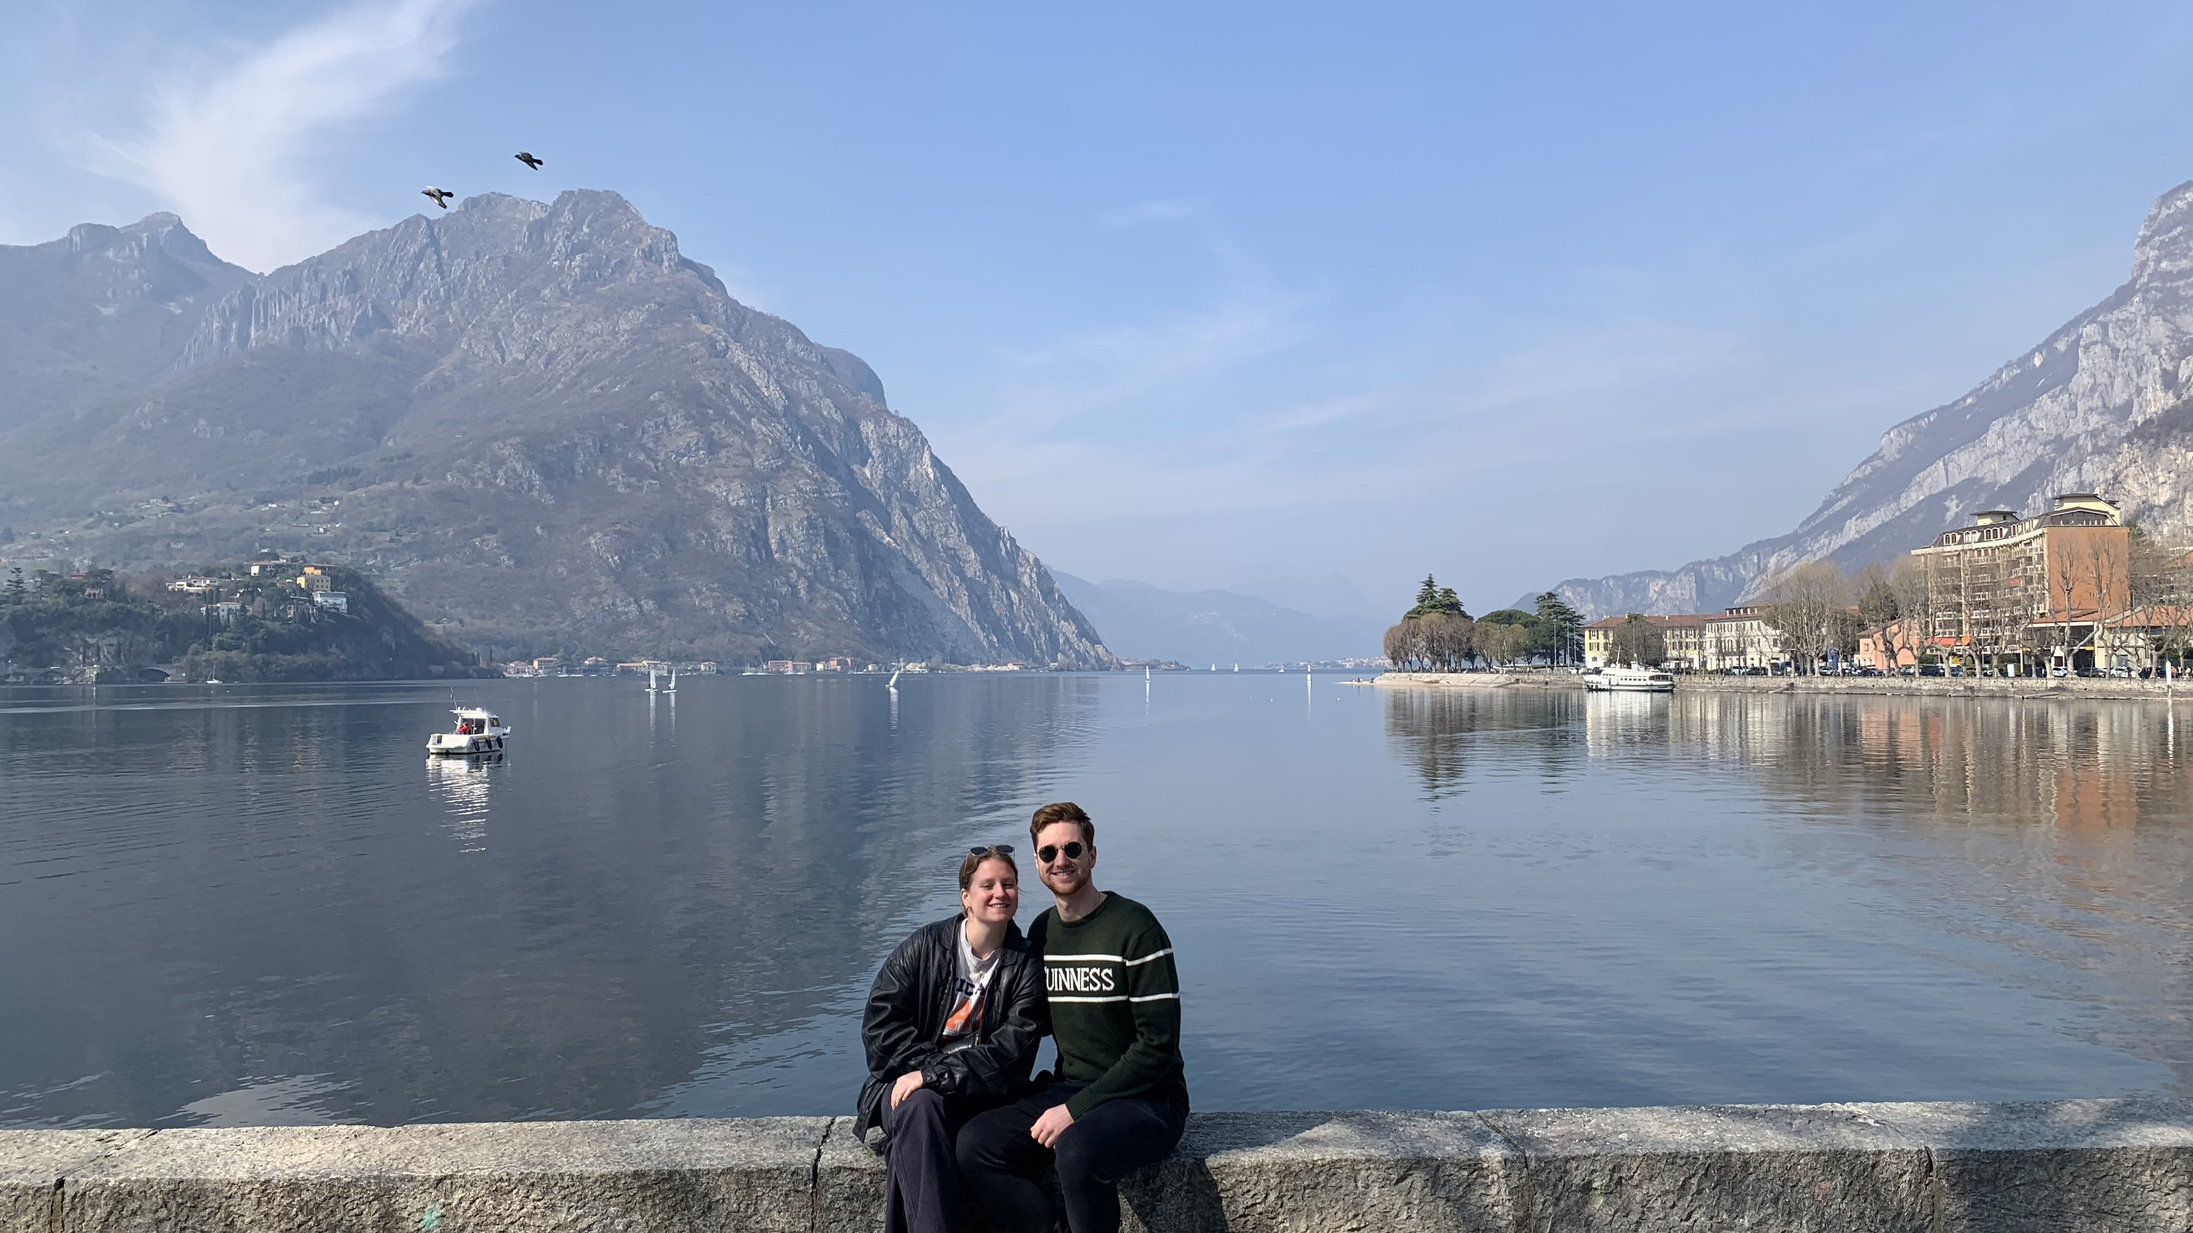
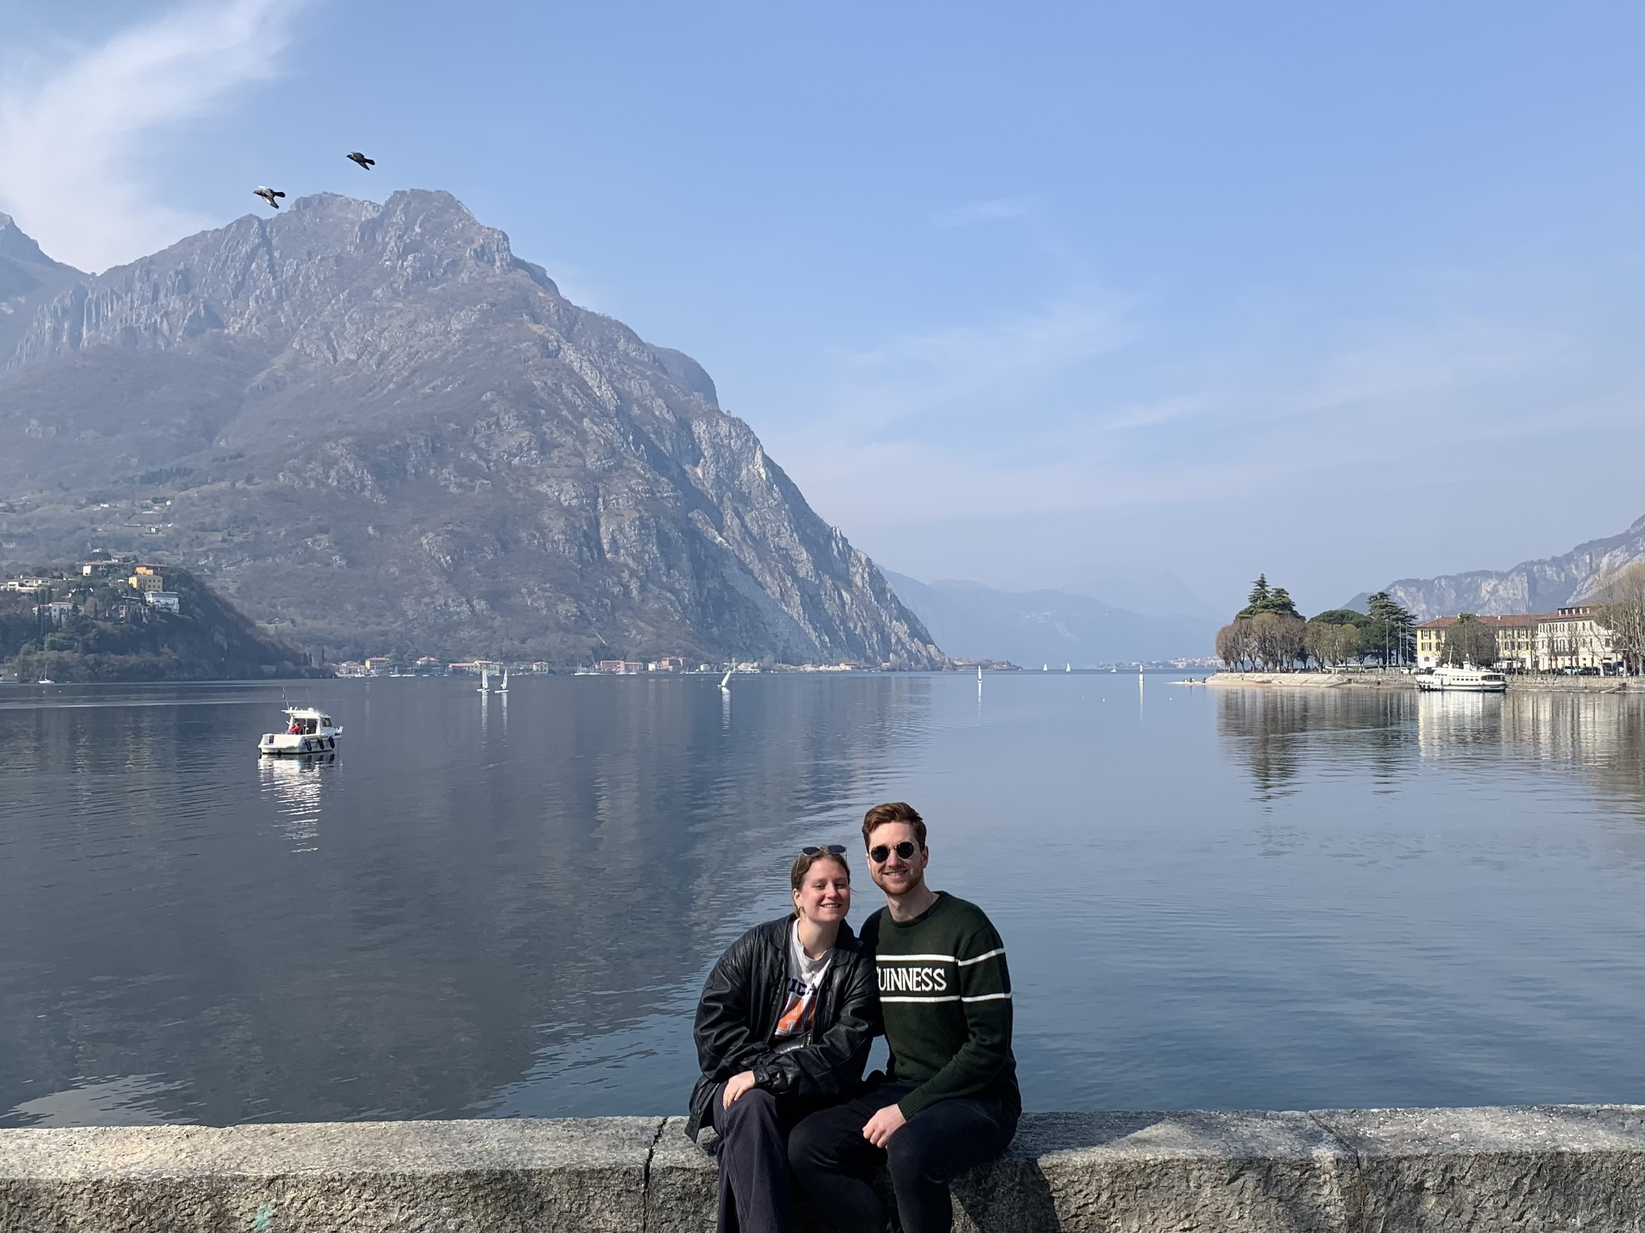
Ireland & Scotland updates

Changed region(s): [[0.0, 0.0, 1.0, 1.0], [0.7149, 0.8333, 0.746, 0.8642], [0.7149, 0.7716, 0.746, 0.8025]]

diff --git a/index.py b/index.py
@@ -745,7 +745,7 @@ def set_display_children(value):
                 'well-known Cristo in Brazil! Visiting the statue, you will realize just how massive it is, '
                 'and you will also get incredible views of the surrounding mountains and the city below. I heard '
                 'some lovely music from the very kind locals, and I ate a salteña that '
-                'I still dream about to this day. I hope to be back some day!',
+                'I still dream about to this day. I hope to be back someday!',
                 html.Br(), html.Br(),
                 html.Div(id="weather", children=weather.update_weather(weather.get_lat_lon(coordinates.cocha_geojson)), className='weather'), html.Br(),
                 html.Div(
@@ -2509,9 +2509,11 @@ def set_display_children(value):
 
     if value == 'Blarney':
         lat_lon_str = weather.get_lat_lon(coordinates.blarney_geojson)
-        return ('Home of the famous Blarney Stone -- found in the Blarney Castle, it endows those who '
-                'kiss it with the "gift of gab." There is much more to Blarney than just the castle or the stone -- '
-                'the castle is surrounded by '
+        return ('Home of the famous Blarney Stone -- found in the legendary Blarney Castle (which dates back to the '
+                'year 1210), it endows those who kiss it with the "gift of gab." ',
+                html.Br(), html.Br(),
+                'There is much more to Blarney than '
+                'just the castle or the stone -- the castle is surrounded by '
                 'extensive gardens. The whole area has a unique mystical feeling. This starts with the castle, its '
                 'dungeons, and the other stories about its history. Outside the castle, there are curious natural rock '
                 'formations, including one that resembles "the Blarney Witch" trapped inside a rock. There are signs '
@@ -2599,7 +2601,8 @@ def set_display_children(value):
                 html.Div(id="weather", children=weather.update_weather(lat_lon_str), className='weather'), html.Br(),
                 dbc.Carousel(
                     items=[
-                        # {"src": "assets/ireland/cork.JPG"},
+                        {"src": "assets/ireland/cork.JPG"},
+                        {"src": "assets/ireland/cork1.JPG"},
                     ],
                     interval=2000,
                     ride="carousel",
@@ -2672,6 +2675,7 @@ def set_display_children(value):
                 html.Br(), html.Br(),
                 "The town is nice (and very small), but the real magic of Donegal is outside of the town and "
                 "in the hills / along the coast. Try to get out and explore the beauty of County Donegal.",
+                html.Br(), html.Br(),
                 html.Div(id="weather", children=weather.update_weather(lat_lon_str), className='weather'), html.Br(),
                 dbc.Carousel(
                     items=[
@@ -2725,7 +2729,6 @@ def set_display_children(value):
                 ), html.Br(),
                 dbc.Carousel(
                     items=[
-                        {"src": "assets/ireland/dublin17.JPG"},
                         {"src": "assets/ireland/dublin8.JPG"},
                         {"src": "assets/ireland/dublin11.JPG"},
                         {"src": "assets/ireland/dublin15.JPG"},
@@ -2740,7 +2743,7 @@ def set_display_children(value):
                         {"src": "assets/ireland/dublin6.JPG"},
                         {"src": "assets/ireland/dublin5.JPG"},
                         {"src": "assets/ireland/dublin12.JPG"},
-                        # {"src": "assets/ireland/dublin7.JPG"},
+                        {"src": "assets/ireland/dublin7.JPG"},
                         {"src": "assets/ireland/dublin14.JPG"},
                         {"src": "assets/ireland/dublin16.JPG"},
                     ],
@@ -2773,6 +2776,7 @@ def set_display_children(value):
                 "Lastly, be sure to get out of the town center and walk along the Claddagh Quay, Nimmo's Pier, "
                 'and South Park for some lovely views of the colored houses along "The Long Walk" and of the River '
                 'Corrib and the Galway Bay.',
+                html.Br(), html.Br(),
                 html.Div(id="weather", children=weather.update_weather(lat_lon_str), className='weather'), html.Br(),
                 dbc.Carousel(
                     items=[
@@ -2794,7 +2798,7 @@ def set_display_children(value):
 
     if value == "Giant's Causeway":
         lat_lon_str = weather.get_lat_lon(coordinates.giants_geojson)
-        return ("Giant's Causeway was really stunning. I was lucky to have had sunshine when I visited. "
+        return ("Giant's Causeway was really stunning. I was lucky to have some sunshine when I visited. "
                 "The rock formations are quite extensive and really fascinating. I loved the day trip excursion I "
                 "did from Belfast, which included Giant's Causeway, the Old Bushmills Distillery, the 'Dark Hedges' "
                 "used in a famous Game of Thrones scene, and also a couple very cool castles "
@@ -2813,6 +2817,9 @@ def set_display_children(value):
                 "causeway, leaving what you see today! You can also find similar rock formations on the Scottish side "
                 "of the sea, representing the remnants of the other side of the bridge that Fionn built.",
                 html.Br(), html.Br(),
+                "In addition to the Giant's Causeway itself, please enjoy a few other pictures from nearby below, "
+                "including the 'Dark Hedges.'",
+                html.Br(), html.Br(),
                 html.Div(id="weather", children=weather.update_weather(lat_lon_str), className='weather'), html.Br(),
                 dbc.Carousel(
                     items=[
@@ -2822,6 +2829,11 @@ def set_display_children(value):
                         {"src": "assets/ireland/giants3.jpg"},
                         {"src": "assets/ireland/giants4.jpg"},
                         {"src": "assets/ireland/giants5.jpg"},
+                        {"src": "assets/ireland/giants6.jpg"},
+                        {"src": "assets/ireland/giants7.jpg"},
+                        {"src": "assets/ireland/giants8.jpg"},
+                        {"src": "assets/ireland/giants9.jpg"},
+
                     ],
                     interval=2000,
                     ride="carousel",
@@ -2880,7 +2892,8 @@ def set_display_children(value):
 
     if value == 'Limerick':
         lat_lon_str = weather.get_lat_lon(coordinates.limerick_geojson)
-        return ('More coming soon!',
+        return ('I just made a quick stop in Limerick, but it was fun to see the fabled River Shannon, the namesake '
+                'for the lovely Irish pub in Chicago!',
                 html.Br(), html.Br(),
                 html.Div(id="weather", children=weather.update_weather(lat_lon_str), className='weather'), html.Br(),
                 dbc.Carousel(
@@ -2925,20 +2938,14 @@ def set_display_children(value):
     if value == 'Bergamo':
         lat_lon_str = weather.get_lat_lon(coordinates.bergamo_geojson)
         return ('DO NOT immediately overlook Bergamo in favor of Milan. A lot of budget airlines that '
-                'fly to "Milan" '
-                'actually fly to the nearby city of Bergamo. It is a really cute city and they invented '
-                'Stracciatella gelato. Take the little cable car up to the high part of the city and walk '
-                'around the '
-                'fortress area. There is a great view to the south of the city right when you get off '
-                'the cable car. '
-                'There is also a restaurant / cafe right there as well with really nice views. '
-                'Climb the rest of the '
-                'way up and you can also get the view the opposite direction (north), where you can '
-                'actually see the '
-                'mountains of Switzerland not too far away! Circolino is a great restaurant -- you can '
-                'get a 3 course '
-                'meal with wine for just 15 euros (as of 2023). Be sure to have some risotto, '
-                'more traditional than pasta in the north of Italy.',
+                'fly to "Milan" actually fly to the nearby city of Bergamo. It is a really cute city and they invented '
+                'Stracciatella gelato. Take the little cable car up to the high part of the city and walk around the '
+                'fortress area. There is a great view to the south of the city right when you get off the cable car. '
+                'There is also a restaurant / cafe right there as well with really nice views. Climb the rest of the '
+                'way up and you can also get the view the opposite direction (north), where you can actually see the '
+                'mountains of Switzerland not too far away! Circolino is a great restaurant -- you can get a 3 course '
+                'meal with wine for just 15 euros (as of 2023). '
+                'Be sure to have some risotto, more traditional than pasta in the north of Italy.',
                 html.Br(), html.Br(),
                 html.Div(id="weather", children=weather.update_weather(lat_lon_str), className='weather'), html.Br(),
                 dbc.Carousel(
@@ -3026,8 +3033,8 @@ def set_display_children(value):
                 html.Div(id="weather", children=weather.update_weather(lat_lon_str), className='weather'), html.Br(),
                 dbc.Carousel(
                     items=[
-                        # {"src": "assets/italy/lecco.JPG"}, # different photo size
-                        # {"src": "assets/italy/lecco1.JPG"}, # different photo size
+                        {"src": "assets/italy/lecco.JPG"},
+                        {"src": "assets/italy/lecco1.JPG"},
                         {"src": "assets/italy/lecco2.JPG"},
                         {"src": "assets/italy/lecco3.JPG"},
                         {"src": "assets/italy/lecco4.JPG"},
@@ -4269,13 +4276,14 @@ def set_display_children(value):
     # Scotland
     if value == 'Carnoustie':
         lat_lon_str = weather.get_lat_lon(coordinates.carnoustie_geojson)
-        return ('Unlike St Andrews, the only reason you should come to Carnoustie is for golf! And that is a great '
-                'reason to come! There are two amazing golf courses here. My dad and I enjoyed two great rounds here.',
+        return ('Unlike the town of St Andrews which has plenty to offer besides golf, the only reason you should come '
+                'to Carnoustie is for golf. This of course if still a great reason to come! There are two amazing '
+                'golf courses here. My dad and I enjoyed a great round on both of the courses.',
                 html.Br(), html.Br(),
                 html.Div(id="weather", children=weather.update_weather(lat_lon_str), className='weather'), html.Br(),
                 dbc.Carousel(
                     items=[
-                        # {"src": "assets/scotland/edinburgh.JPG"},
+                        # {"src": "assets/scotland/carnoustie.JPG"},
                     ],
                     interval=2000,
                     ride="carousel",
@@ -4292,16 +4300,16 @@ def set_display_children(value):
                 html.Div(id="weather", children=weather.update_weather(lat_lon_str), className='weather'), html.Br(),
                 dbc.Carousel(
                     items=[
-                        {"src": "assets/scotland/edinburgh.JPG"},
-                        {"src": "assets/scotland/edinburgh1.JPG"},
-                        {"src": "assets/scotland/edinburgh2.JPG"},
-                        {"src": "assets/scotland/edinburgh3.JPG"},
-                        {"src": "assets/scotland/edinburgh4.JPG"},
-                        {"src": "assets/scotland/edinburgh5.JPG"},
-                        {"src": "assets/scotland/edinburgh6.JPG"},
-                        {"src": "assets/scotland/edinburgh7.JPG"},
-                        {"src": "assets/scotland/edinburgh8.JPG"},
-                        {"src": "assets/scotland/edinburgh9.JPG"},
+                        {"src": "assets/scotland/edi.JPG"},
+                        {"src": "assets/scotland/edi1.JPG"},
+                        {"src": "assets/scotland/edi2.JPG"},
+                        {"src": "assets/scotland/edi3.JPG"},
+                        {"src": "assets/scotland/edi4.JPG"},
+                        {"src": "assets/scotland/edi5.JPG"},
+                        {"src": "assets/scotland/edi6.JPG"},
+                        {"src": "assets/scotland/edi7.JPG"},
+                        {"src": "assets/scotland/edi8.JPG"},
+                        {"src": "assets/scotland/edi9.JPG"},
                     ],
                     interval=2000,
                     ride="carousel",
@@ -4313,7 +4321,33 @@ def set_display_children(value):
 
     if value == 'Glasgow':
         lat_lon_str = weather.get_lat_lon(coordinates.glasgow_geojson)
-        return ('Trip with Felix, Gienna, & Oliver coming soon!',
+        return ('Glasgow is undoubtedly one of my favorite cities on the planet. To me, Glasgow is a beautiful mix of '
+                'Galway and Berlin. You have the unassuming, nonjudgmental attitude of Berlin, the German passion '
+                'for soccer, and the vibrant celtic music and pub culture.',
+                html.Br(), html.Br(),
+                'I was very fortunate to be able to spend a week in Glasgow, and I was also lucky to be joined by '
+                'Gienna, Oliver, and Felix for the weekend! Some of my highlights include '
+                'the University of Glasgow (feels like Hogwarts), the nearby Kelvingrove Park, visiting the Clydeside '
+                'Distillery, the live music at the pubs, and the stunning atmosphere for the Celtic FC games. ',
+                html.Br(), html.Br(),
+                'For incredible live music and soccer culture, be sure to go to the Brazen Head on a Celtic gameday. '
+                'This is the best place to be for a Celtic game, but it is a bit out of the center of the city. More '
+                "centrally, there are several other good spots for live music and the Celtic game, including Grace's "
+                "and Connolly's. "
+                'For a more traditional céilí live music session, be sure to go to Babbity Bowster. This is a great '
+                'place to try haggis, the national dish of Scotland! Any traditional pub or restaurant in Scotland '
+                'should serve haggis. It might sound a bit strange, but it is quite delicious! '
+                'A couple other fantastic restaurants (without live music) include The Griffin Pub and '
+                'Rab Ha’s Pub/Eatery.',
+                html.Br(), html.Br(),
+                'There are plenty of great whiskey bars in Glasgow -- two I would very highly recommend are The Pot '
+                'Still (the most famous) and The Last Bookstore (super cool atmosphere and very friendly staff, '
+                'it feels like a library).',
+                html.Br(), html.Br(),
+                'I was very fortunate to be able to get a ticket for the Celtic Champions League '
+                'game against Leipzig. There were fireworks going off across the entire city starting maybe 2 hours '
+                'before kickoff, continuing throughout the entire game, and continuing after the big win for maybe '
+                'another 2 hours! I have never seen anything quite like it before.',
                 html.Br(), html.Br(),
                 html.Div(id="weather", children=weather.update_weather(lat_lon_str), className='weather'), html.Br(),
                 dbc.Carousel(
@@ -4328,14 +4362,38 @@ def set_display_children(value):
                     dl.Map([dl.TileLayer(), dl.GeoJSON(data=coordinates.glasgow_geojson)],
                            style={'height': '35vh', 'max-width': "400px", "margin": "auto"}, center=[25, -40], zoom=1)))
 
-    if value == 'St. Andrews':
+    if value == 'St Andrews':
         lat_lon_str = weather.get_lat_lon(coordinates.st_andrews_geojson)
-        return ('More info coming soon!',
+        return ('The home of golf! I am so fortunate to have spent several days in St Andrews with my dad. It is said '
+                'that golf was born here back in the 1500s, and it is the dream of a lifetime of many fathers and sons '
+                'to come together to St Andrews to play golf. There are multiple 18 hole courses at St Andrews, '
+                'but the most famous (probably the most famous course in the world) is called the Old Course. '
+                'As you can imagine, it is very difficult to get a tee time on the Old Course, so tee times need to be '
+                'reserved long in advance. There is however a daily lottery on the Old Course if you are '
+                'not able to get a tee time booked in advance. Additionally, if you are staying at St Andrews, there '
+                'are also a number of fantastic golf courses nearby, including Carnoustie and Kingsbarns.',
+                html.Br(), html.Br(),
+                'It is so cool to see how golf is so present all through the town of St Andrews, with pictures of the '
+                'course and famous golfers hanging all over the walls of local hotels, restaurants, and bars. There '
+                'are so many cool restaurants and bars here, all offering delicious food, stouts, and whiskey. Maybe '
+                'the most famous/popular bar is The Dunvegan -- it has good prices, an amazing Scottish stout, tons '
+                'of whiskey, and golf pictures covering nearly every inch of the walls and even the ceiling. A couple '
+                'other great spots include ____.',
+                html.Br(), html.Br(),
+                'Beyond the golf, there are two other elements that make St Andrews such a special, unique place. '
+                'First, there is also a very old university here, which naturally means that there are plenty of '
+                'students living there. This contributes a youthful energy to the town, and I think also helps '
+                'to keep the town relatively affordable, offering more casual restaurants and bars alongside a number '
+                'of more elevated options. Second, there are also several fascinating historical monuments. '
+                'The walls of a church date back to the year 1158, and the remnants of the St Andrews Castle date '
+                'back to approximately 1200. There are also a couple old city gates that still stand today.',
+                html.Br(), html.Br(),
+                "I absolutely loved St Andrews and I can't wait to go back again someday.",
                 html.Br(), html.Br(),
                 html.Div(id="weather", children=weather.update_weather(lat_lon_str), className='weather'), html.Br(),
                 dbc.Carousel(
                     items=[
-                        # {"src": "assets/scotland/edinburgh.JPG"},
+                        # {"src": "assets/scotland/st_andrews.JPG"},
                     ],
                     interval=2000,
                     ride="carousel",

diff --git a/city_list.py b/city_list.py
@@ -40,7 +40,7 @@ all_options = {
     'Poland 🇵🇱': ['Krakow', 'Szczecin', 'Warsaw', 'Wrocław'],
     'Portugal 🇵🇹': ['Guincho Beach', 'Lisbon'],
     'Puerto Rico 🇵🇷': ['Rincón', 'San Juan'],
-    'Scotland 🏴': ['Carnoustie', 'Edinburgh', 'Glasgow', 'St. Andrews'],
+    'Scotland 🏴': ['Carnoustie', 'Edinburgh', 'Glasgow', 'St Andrews'],
     'Slovakia 🇸🇰': ['Bratislava'],
     'Slovenia 🇸🇮': ['Ljubljana'],
     'Spain 🇪🇸': ['Azpeitia', 'Barcelona', 'Begur', 'Bilbao', 'Buñol', 'Córdoba', 'El Escorial', 'Girona', 'Granada',
